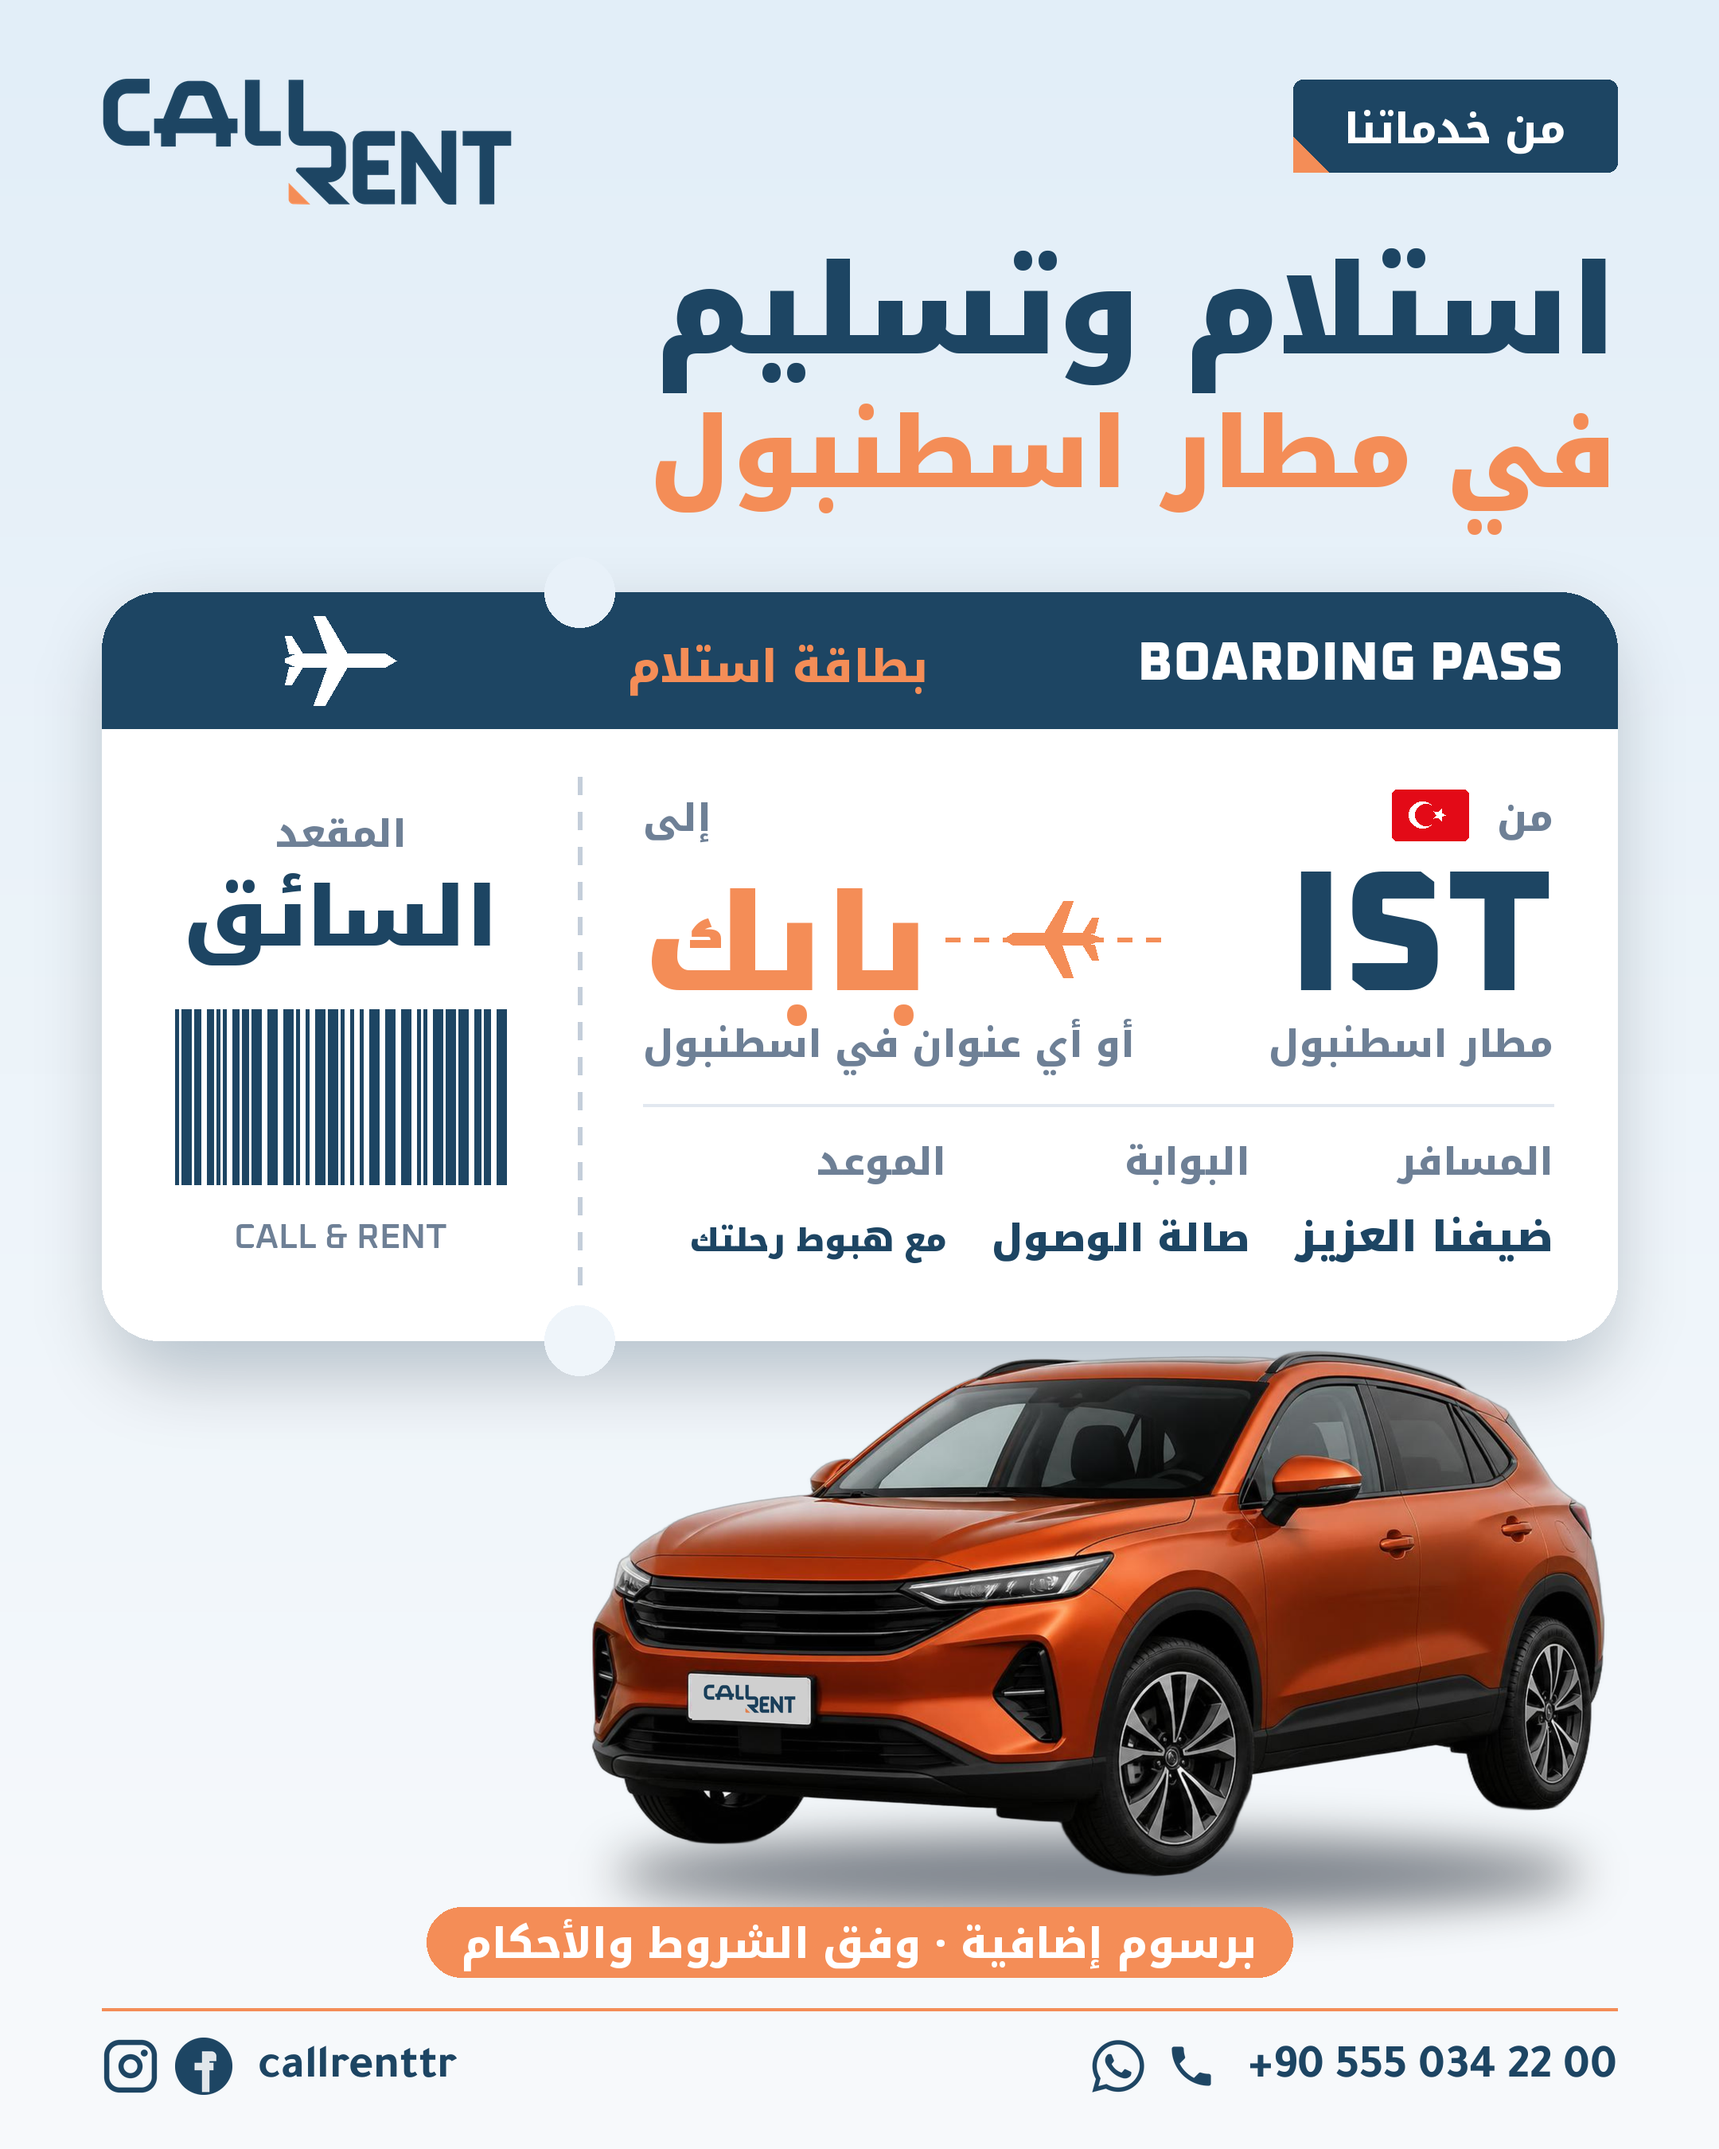
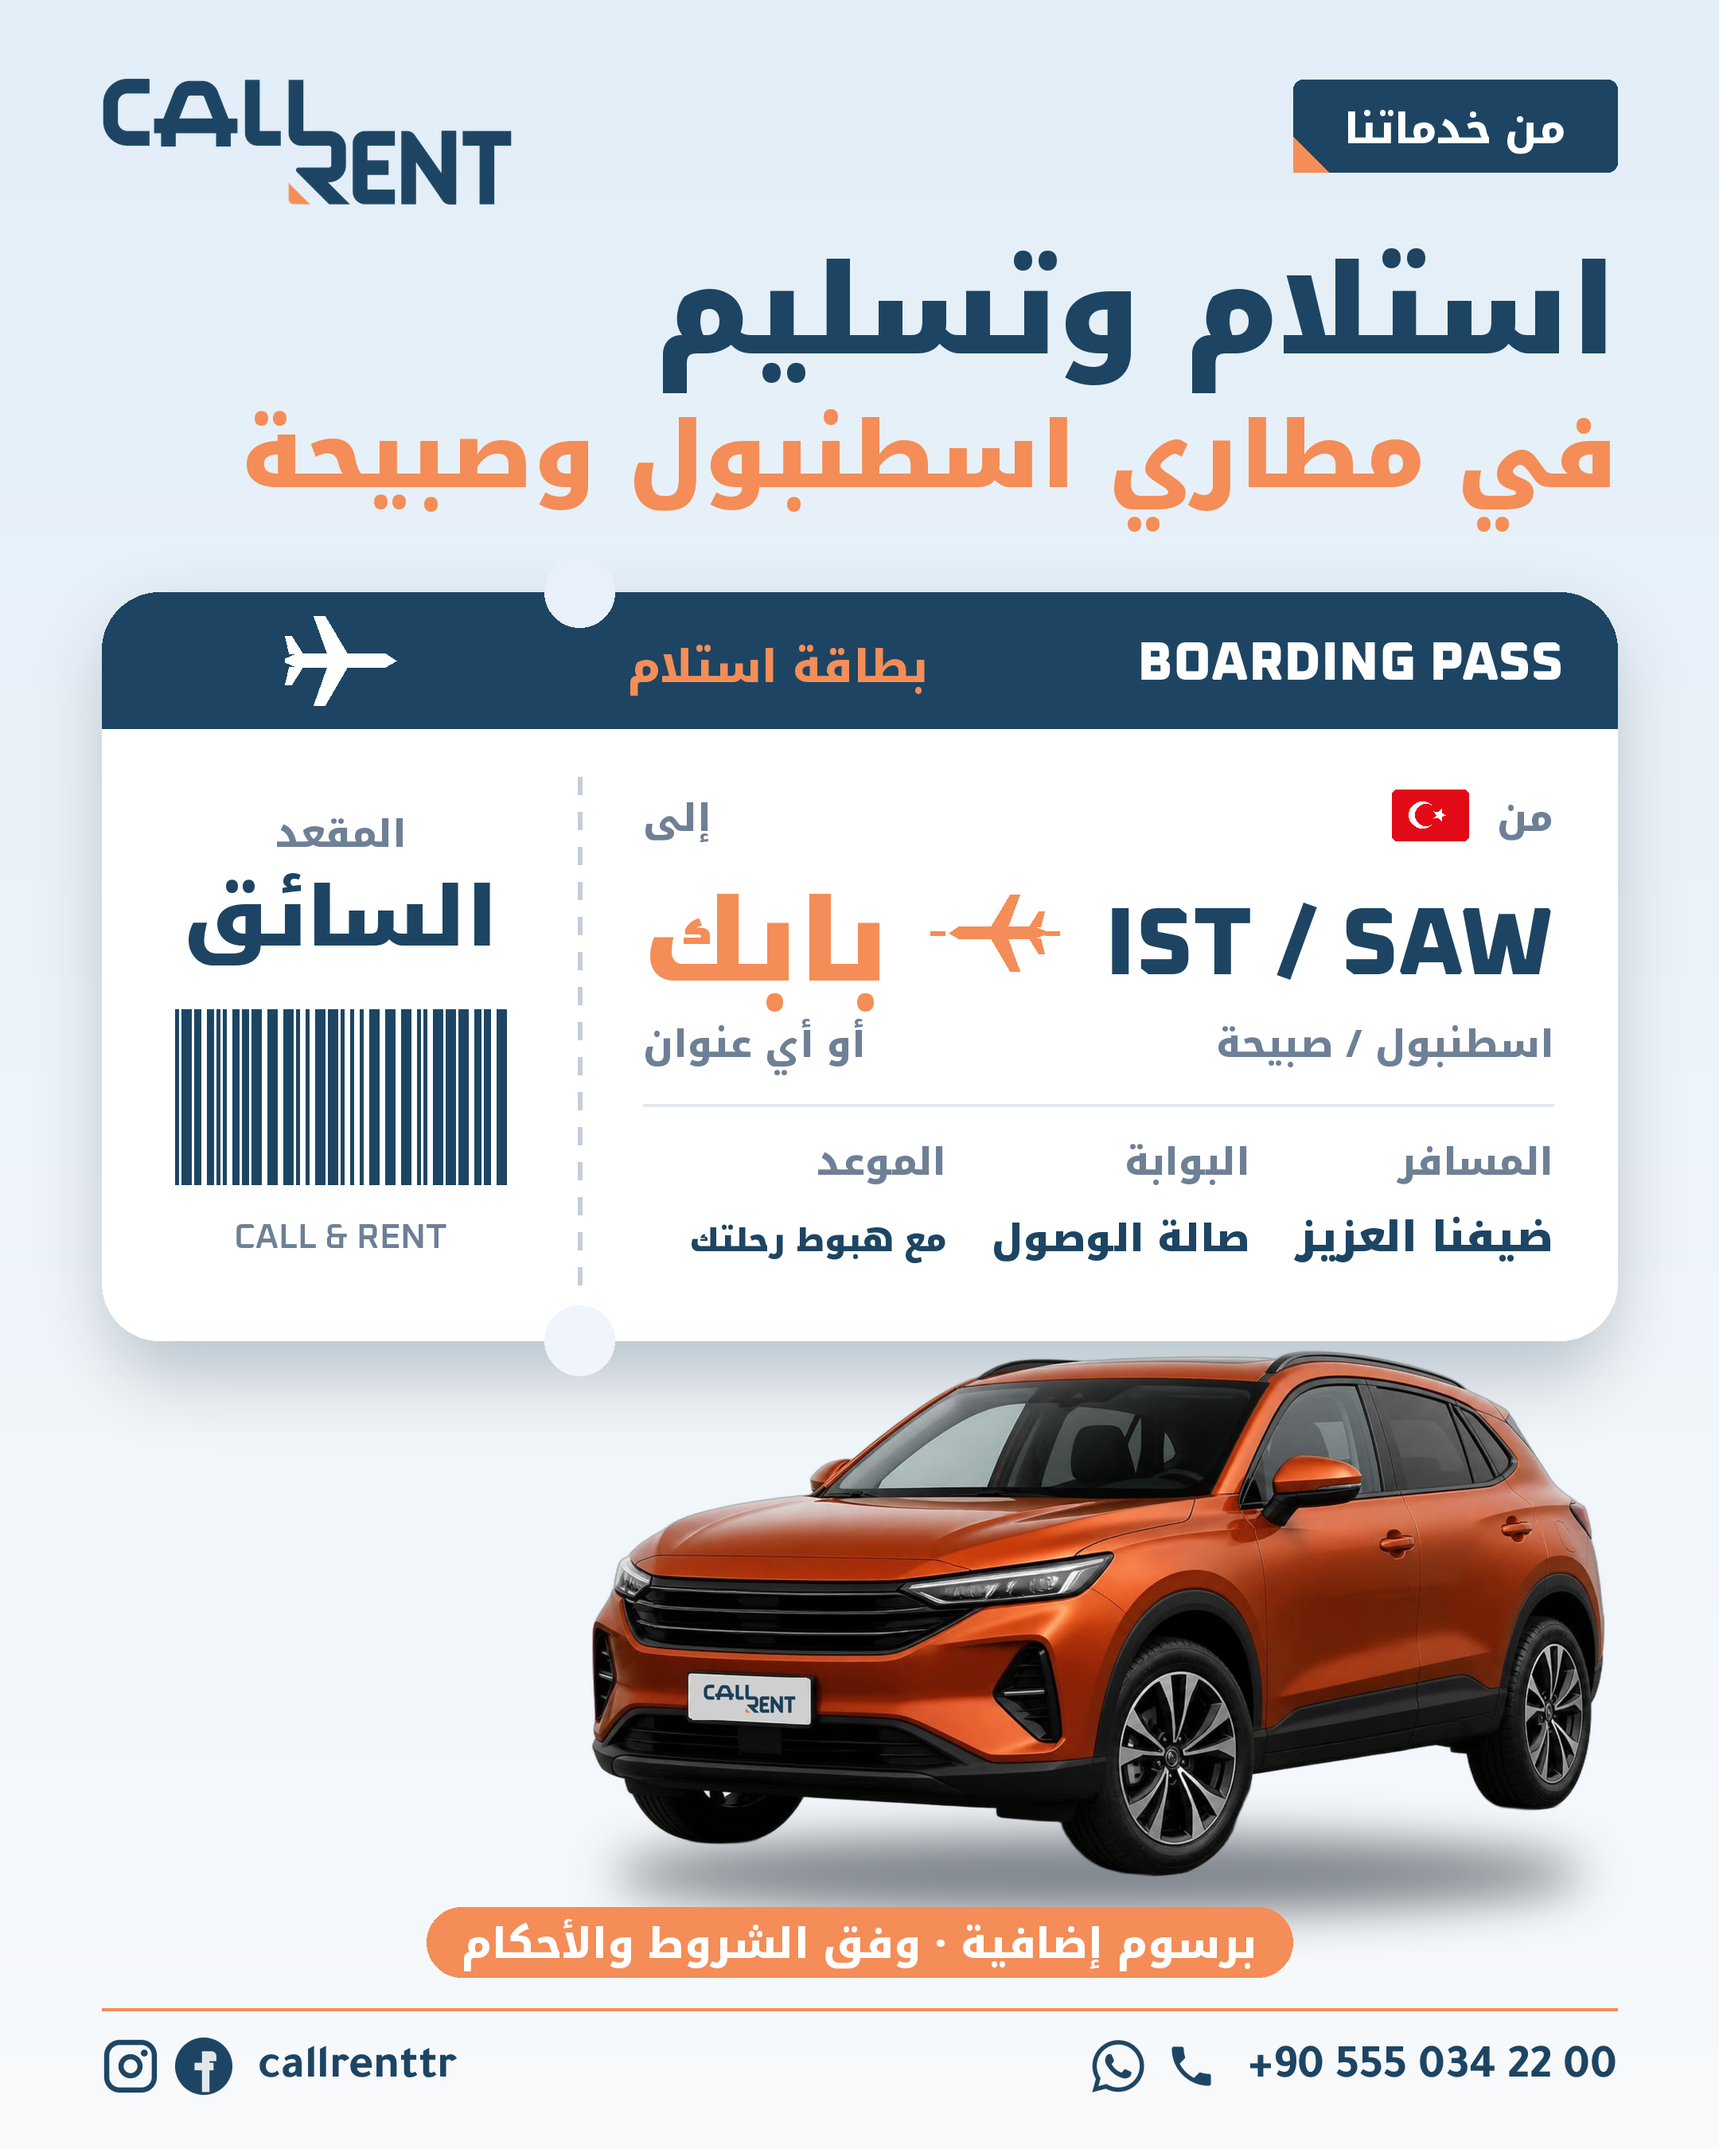
Boarding-pass airport post: Istanbul and Sabiha (IST / SAW)
Claude-Session: https://claude.ai/code/session_01JWxxZZBXcuDznNNTjM86b7

diff --git a/marketing/posts/airport_pass.py b/marketing/posts/airport_pass.py
@@ -84,7 +84,7 @@ d.polygon([(bx, by+bh-S(22)), (bx, by+bh), (bx+S(22), by+bh)], fill=O+(255,))
 ar(d, (bx+bw/2, by+bh/2+S(2)), label, fb, Wh+(255,), 'mm')
 
 ar(d, (R_, S(222)), 'استلام وتسليم', F(AR_BLACK, S(78)), N+(255,), 'rs')
-ar(d, (R_, S(306)), 'في مطار اسطنبول', F(AR_BLACK, S(62)), O+(255,), 'rs')
+ar(d, (R_, S(306)), 'في مطاري اسطنبول وصبيحة', F(AR_BLACK, S(58)), O+(255,), 'rs')
 
 # ---- the boarding pass -----------------------------------------------------------------
 tx0, ty0, tx1, ty1 = M, S(372), R_, S(842)
@@ -112,13 +112,14 @@ for y in range(int(ty0 + hb + S(30)), int(ty1 - S(30)), S(22)):
 mx0, mx1 = px + S(40), tx1 - S(40)
 lab = F(AR_BOLD, S(24)); sub = F(AR_BOLD, S(24))
 ar(d, (mx1, ty0 + S(150)), 'من', lab, SOFTN+(255,), 'rs')
-d.text((mx1, ty0 + S(250)), 'IST', font=F(LT_BOLD, S(108)), fill=N+(255,), anchor='rs')
+codes = 'IST / SAW'; fcode = F(LT_BOLD, S(60))
+d.text((mx1, ty0 + S(240)), codes, font=fcode, fill=N+(255,), anchor='rs')
 tr_flag(d, mx1 - w_ar('من', lab) - S(66), ty0 + S(124), S(48), S(32))
-ar(d, (mx1, ty0 + S(292)), 'مطار اسطنبول', sub, SOFTN+(255,), 'rs')
+ar(d, (mx1, ty0 + S(292)), 'اسطنبول / صبيحة', sub, SOFTN+(255,), 'rs')
 ar(d, (mx0, ty0 + S(150)), 'إلى', lab, SOFTN+(255,), 'ls')
-ar(d, (mx0, ty0 + S(250)), 'بابك', F(AR_BLACK, S(84)), O+(255,), 'ls')
-ar(d, (mx0, ty0 + S(292)), 'أو أي عنوان في اسطنبول', sub, SOFTN+(255,), 'ls')
-lx0, lx1, ly = mx0 + S(190), mx1 - S(250), ty0 + S(218)
+ar(d, (mx0, ty0 + S(244)), 'بابك', F(AR_BLACK, S(72)), O+(255,), 'ls')
+ar(d, (mx0, ty0 + S(292)), 'أو أي عنوان', sub, SOFTN+(255,), 'ls')
+lx0, lx1, ly = mx0 + w_ar('بابك', F(AR_BLACK, S(72))) + S(26), mx1 - w_lt(codes, fcode) - S(26), ty0 + S(214)
 for x in range(int(lx0), int(lx1), S(18)):
     d.line([(x, ly), (x + S(9), ly)], fill=O+(255,), width=S(3))
 plane(d, (lx0 + lx1)/2, ly, S(60), O+(255,), ang=0)
